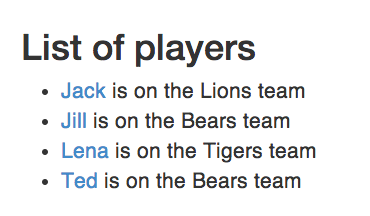
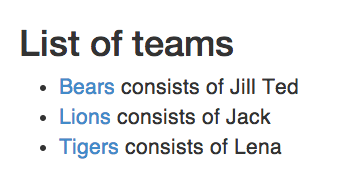
Finished 248-teams-and-players.

Changed region(s): [[0.0932, 0.3804, 0.8701, 0.8967], [0.0621, 0.1359, 0.7147, 0.3261]]

diff --git a/248-teams-and-players/db/schema.rb b/248-teams-and-players/db/schema.rb
@@ -11,35 +11,14 @@
 #
 # It's strongly recommended that you check this file into your version control system.
 
-ActiveRecord::Schema.define(version: 20131105170921) do
+ActiveRecord::Schema.define(version: 20131105165927) do
 
   # These are extensions that must be enabled in order to support this database
   enable_extension "plpgsql"
 
-  create_table "authors", force: true do |t|
-    t.string "full_name"
-    t.string "email"
-  end
-
-  create_table "cars", force: true do |t|
-    t.integer "user_id"
-    t.string  "model"
-  end
-
-  create_table "members", force: true do |t|
-    t.string "username"
-  end
-
   create_table "players", force: true do |t|
     t.integer "team_id"
     t.string  "name"
-  end
-
-  create_table "recipes", force: true do |t|
-    t.string  "name"
-    t.integer "author_id"
-    t.text    "ingredients"
-    t.text    "instructions"
   end
 
   create_table "teams", force: true do |t|

diff --git a/248-teams-and-players/controller.rb b/248-teams-and-players/controller.rb
@@ -1,12 +1,12 @@
 require './davinci-sinatra.rb'
 
 get "/" do
-  @players = Player.order(:name)
+  @teams = Team.order(:name)
   halt erb(:index)
 end
 
-get "/players/:id" do
-  id = params["id"]
-  @player = Player.find(id)
+get "/teams/:name" do
+  name = params["name"]
+  @team = Team.find_by(name: name)
   halt erb(:show)
 end
